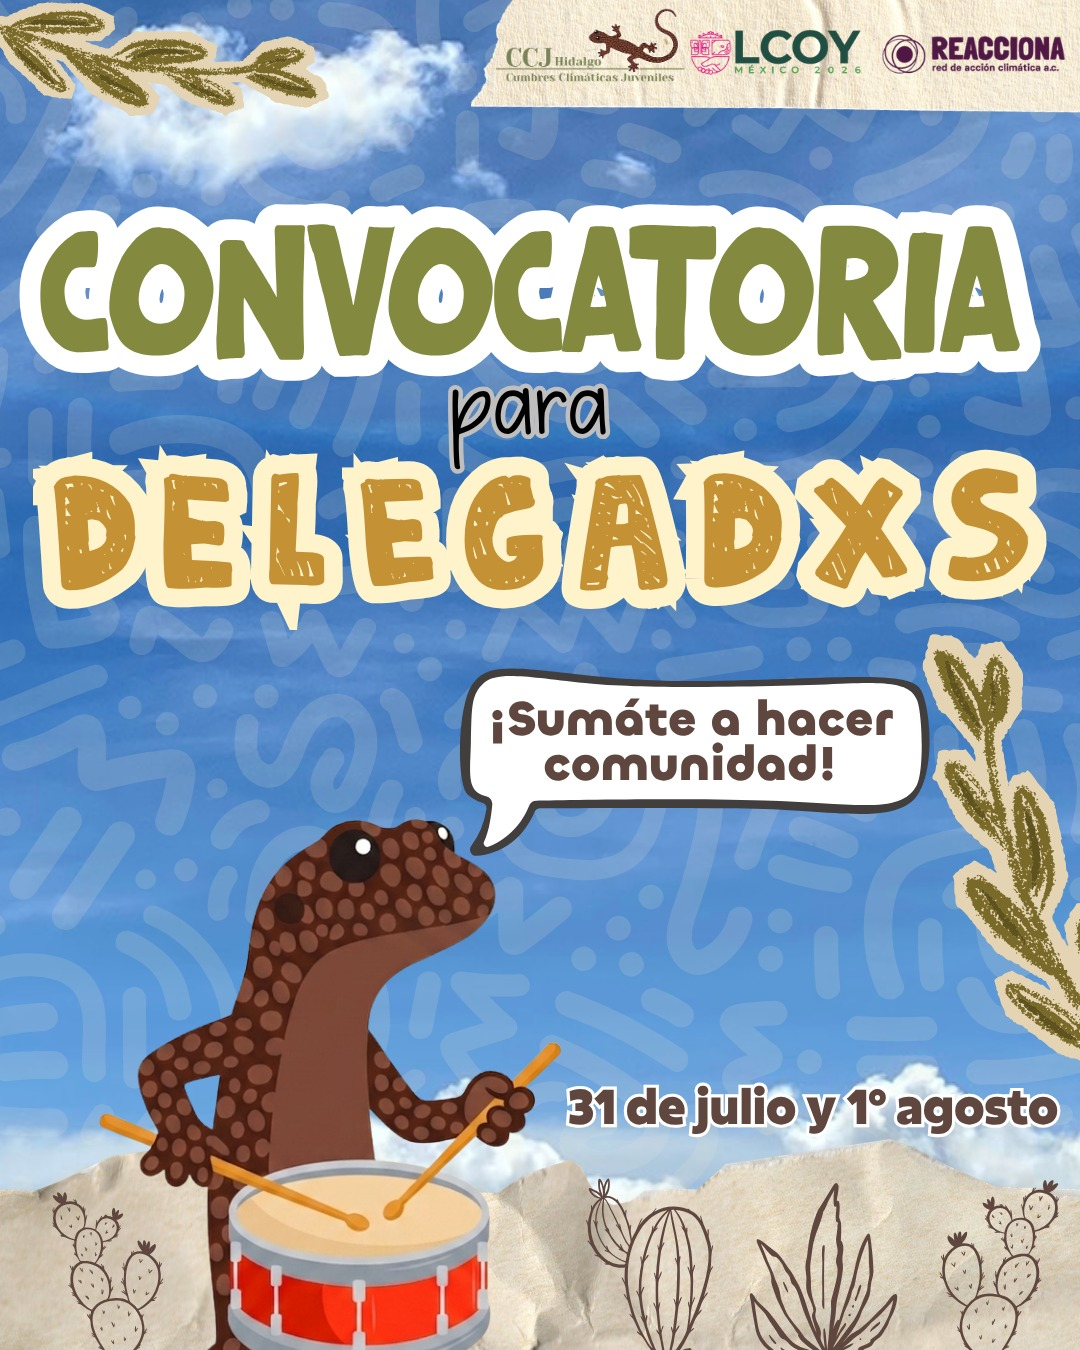
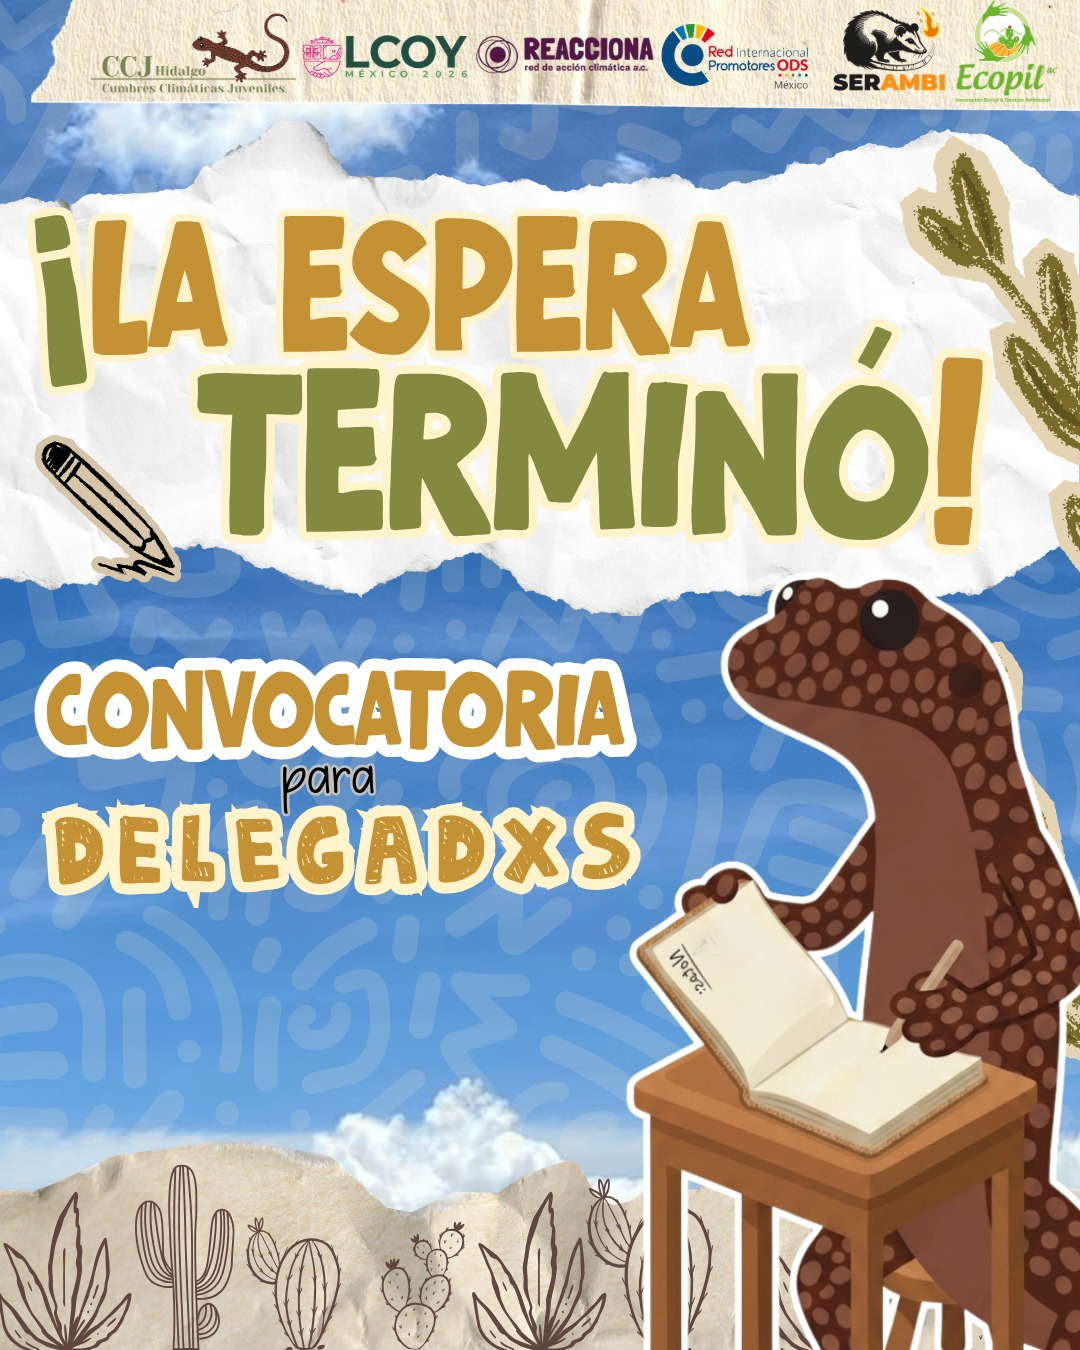
fix: actualizar imagenes del carrusel con fechas y edad corregidas
Reemplaza convocatoria (fecha vencida 31 jul/1 ago), requisitos (edad
tope 29 -> 30, ya no coincidia con el formulario) y la pieza de
"quieres ser patrocinador" por "quieres ser delegadx", version
vigente del material grafico oficial.

diff --git a/src/app/page.tsx b/src/app/page.tsx
@@ -11,15 +11,15 @@ const ACTIVIDADES_DER = ACTIVIDADES.filter((a) => a.dia > 3)
 const PATROCINIO_SLIDES = [
   {
     src: '/images/carrusel-convocatoria.jpeg',
-    alt: 'Convocatoria para delegadxs — mascota CCJ Hidalgo tocando tambor',
+    alt: 'La espera terminó — convocatoria para delegadxs de la CCJ Hidalgo 2026',
   },
   {
     src: '/images/carrusel-requisitos.jpeg',
-    alt: 'Requisitos para participar en la CCJ Hidalgo 2026',
+    alt: 'Requisitos para participar en la CCJ Hidalgo 2026: tener de 18 a 30 años',
   },
   {
     src: '/images/carrusel-patrocinador.jpeg',
-    alt: '¿Quieres ser patrocinador de la CCJ Hidalgo 2026?',
+    alt: '¿Quieres ser delegadx de la CCJ Hidalgo 2026?',
   },
   {
     src: '/images/carrusel-ayuda.jpeg',
